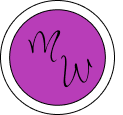
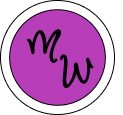
updating pictures and designs adding "media" to case study page

Changed region(s): [[0.2195, 0.2348, 0.7805, 0.7826]]

diff --git a/project1.html b/project1.html
@@ -10,7 +10,7 @@
 </head>
 <body>
     <nav class="navbar sticky-top navbar-expand-lg navbar-light bg-light">
-        <a class="navbar-brand" href="#"><img src="media/Monogram.png"alt="MW-monogram" height="110%" width="auto%">
+        <a class="navbar-brand" href="#"><img src="media/Monogram (1).png"alt="MW-monogram" height="110%" width="auto%">
       </a>
         <button class="navbar-toggler" type="button" data-toggle="collapse" data-target="#navbarTogglerDemo02" aria-controls="navbarTogglerDemo02" aria-expanded="false" aria-label="Toggle navigation">
           <span class="navbar-toggler-icon"></span>
@@ -39,7 +39,7 @@
           </div>
         </nav>
 <!--informational header-->
-      <div class="jumbotron" margin-top="200px"><h1 class="display-4">Government Page Redesign</h1><img src="./media/AuPost mock-up.png" alt="aupost mockup" class="img-fluid" max-width="100%" height="auto">
+      <div class="jumbotron" margin-top="200px"><h1 class="display-4">Government Page Redesign</h1><img src="media/Untitled design (8).png" alt="aupost mockup" class="img-fluid rounded" max-width="100%" height="auto">
         
         <p class="lead">Project Overview</p>
         <hr class="my-4">
@@ -111,7 +111,7 @@
       <!--Spy modal with scroll-->
         <div class="container-fluid">
         <div class="row">
-        <div id="list-sidebar" class="list-group col-sm-3" data-spy="affix" data-offset-top="200"><h2>My Design Process</h2>
+        <div id="list-sidebar" class="list-group col-sm-2" data-spy="affix" data-offset-top="200"><h2>My Design Process</h2>
          <ul>
          <li><a class="list-group-item list-group-item-action" href="#list-item-1">Empathize</a></li>
           <li><a class="list-group-item list-group-item-action" href="#list-item-2">Define</a></li>
@@ -121,10 +121,21 @@
           <li><a class="list-group-item list-group-item-action" href="#list-item-6">Solution</a></li>
           </ul>
           </div>
-      <div class="design-process col-sm-8">
-        <h4 id="list-item-1">Empathize</h4>
-        <p>Government websites are notorious for having bad design.  Users are often frustrated trying to find the information they are searching for. For this project, I chose to redesign the australia post office navigation and homepage. In the empathize phase of the design process I created a proto-persona to try to understand the user's needs, and a user journey to understand what his pain points might be. Then I took a look at user's actually experiences by conducting two usability tests, compiling the information into an affinity diagram, and completing a heuristic evaluation of the navigation and homepage.</p>
-        <h5>Proto-Persona</h5><p>Ken owns a small printing business in australia, where he resides.  He loves creating banners, stationary, and posters for his clients.  Recently, he has started branching out to create materials for larger companies,  he needs to efficiently mail samples to clients and potential clients.  As ken has grown, his need for using the postal service has grown.  The current website feels convoluted and hard to navigate.</p><img src="media/protopersonaresized.png" alt="proto-persona for Australia Post Office Redesign" class="img-fluid"></p><h5>Usability Findings</h5><h6>Objective</h6><p>To better understand where users struggle using the australia post office website, which parts aren't functional, and where the navigation and homepage can be improved.</p><h6>KPI's</h6><p>Do users struggle with using the navigation and website? Does the user have to click the "Back" button because navigation was unclear?</p><img src="./media/clippedpainpoints.png" alt="Users wished there was more iconography and clearer navigation as well as CTA buttons." class="img-fluid"><h5>Heuristic Evaluation</h5><p>The biggest issues with the homepage was its accessibility and performance.  According to the lighthouse report, the homepage scored 50% in performance, and from my own research using the 6 main colors, the homepage had a 60% failure rate for accessibility.  You can see my evaluation <a href="https://docs.google.com/document/d/1l0A5y9Z8o1qSMFwNXmfq9iB7bsAolx5JOa9MxtEXkR8/edit?usp=sharing" class="stretched-link">Here</a>. </p>
+      <div class="design-process col-sm-10">
+        
+        <div class="media">
+          <div class="media-body ml-auto">
+            <h4 id="list-item-1" class="mt-0 mb-1">Empathize</h4>
+        <p>Government websites are notorious for having bad design.  Users are often frustrated trying to find the information they are searching for. For this project, I chose to redesign the australia post office navigation and homepage. </p></div>
+         <img src="media/Au Post above the fold2.png" alt="Australia post office homepage" class="img-thumbnail rounded-small mr-auto shadow">
+         </div>
+         <div class="media align-self-center mr-3">
+         <img src="media/protopersonarere.png" alt="proto-persona for Australia Post Office Redesign" class="img-thumbnail">
+         <div class="media-body"><h5 class="mt-0">Proto-Persona</h5>
+          <p>Ken owns a small printing business in australia, where he resides.  As Ken's business has grown, his need for using the postal service has grown.  The current website feels convoluted and hard to navigate.<p>
+        </div>
+      </div>
+        <h5>Usability Testing</h5><h6>Objective</h6><p>To better understand where users struggle using the australia post office website, which parts aren't functional, and where the navigation and homepage can be improved.</p><h6>KPI's</h6><p>Do users struggle with using the navigation and website? Does the user have to click the "Back" button because navigation was unclear?</p><img src="./media/clippedpainpoints.png" alt="Users wished there was more iconography and clearer navigation as well as CTA buttons." class="img-fluid"><h5>Heuristic Evaluation</h5><p>The biggest issues with the homepage was its accessibility and performance.  According to the lighthouse report, the homepage scored 50% in performance, and from my own research using the 6 main colors, the homepage had a 60% failure rate for accessibility.  You can see my evaluation <a href="https://docs.google.com/document/d/1l0A5y9Z8o1qSMFwNXmfq9iB7bsAolx5JOa9MxtEXkR8/edit?usp=sharing">Here</a>. </p>
         <h4 id="list-item-2">Define</h4><h5>Card Sort</h5>
         <p></p><h5>Updated Site Map</h5><p>The next largest issue was the excessive use of red.  While red is a color of their brand, too much red can be jarring, reminding the user of warnings such as a red stop light or a red stop sign.  Finally, the CTA bar was located too far down the page. The cta buttons are usually commonly-used actions but these weren't very useful because they were located around the fold of the page. </p>
         <h4 id="list-item-3">Ideate</h4>
@@ -146,14 +157,14 @@
           <i class="social-media">
         <img src="./media/linkedin.png" class="icon">
         </i>
-          <p class="lead"><a href="https://www.linkedin.com/in/marla-c-wright" class="stretched-link">linkedin.com/in/marla-c-wright</a></p>
+          <p class="lead"><a href="https://www.linkedin.com/in/marla-c-wright">linkedin.com/in/marla-c-wright</a></p>
           <break></break>
         </div>
-        <div class="row">
+       <!--<div class="row">
           <i class="social-media">
           <img src="./media/google.png" class="icon">
         </i>
-          <p class="lead">marla.christine.wright@gmail.com</p>
+          <p class="lead">marla.christine.wright@gmail.com</p>-->
         </div>
         </div>
       </div>

diff --git a/index.html b/index.html
@@ -11,7 +11,7 @@
 <body>
 
     <nav class="navbar sticky-top navbar-expand-lg navbar-light bg-light">
-      <a class="navbar-brand" href="#"><img src="media/Monogram.png"alt="MW-monogram" height="110%" width="auto%">
+      <a class="navbar-brand" href="#"><img src="media/Monogram (1).png"alt="MW-monogram" height="110%" width="auto%">
     </a>
       <button class="navbar-toggler" type="button" data-toggle="collapse" data-target="#navbarTogglerDemo02" aria-controls="navbarTogglerDemo02" aria-expanded="false" aria-label="Toggle navigation">
         <span class="navbar-toggler-icon"></span>
@@ -40,9 +40,9 @@
       </div>
     </nav>
  <h1 class="display-4">Hi! I'm Marla,</h1>
-      <div class="jumbotron text-right row row-cols-md-2">
+      <div class="jumbotron text-right row row-cols-md-2 bg-light">
         <div class="media" class="headshot">
-          <img src="media/2023-02-24.jpg" class="img-thumbnail rounded-circle" alt="Headshot">
+          <img src="media/2023-02-24.jpg" class="img-thumbnail rounded-circle border border-dark" alt="Headshot">
         </div>
         <div>
         <!--<hr class="my-4">
@@ -67,7 +67,7 @@
             <div class="card-header">
                 Aupost.com.au
               </div>
-            <img src="media/gifmock (4).gif" alt="Aupost mockup">
+            <img src="media/Untitled design (8).png" alt="Aupost mockup" id="aumock"class="rounded">
             <div class="card-body">
               <h5 class="card-title">Government Site Redesign</h5>
               <p class="card-text">Redesigned Government Website Navigation Bar for Improved Hierarchy & Homepage for Improved Usability.</p>
@@ -80,7 +80,7 @@
             <div class="card-header">
                 Stjude.org
               </div>
-            <img src="media/gifmock (3).gif" class="card-img-top" alt="St-Jude-mockup">
+            <img src="media/Untitled design (9).png" id="judemock"class="card-img-top" alt="St-Jude-mockup" class="rounded">
             <div class="card-body">  
               <h5 class="card-title">Non-Profit Site Redesign</h5>
               <p class="card-text">Redesigned Homepage, Navigation, & One Additional Landing Page for Improved Usability.</p>
@@ -97,19 +97,19 @@
               <i class="social-media">
             <img src="./media/linkedin.png" class="icon">
             </i>
-              <p class="lead"><a href="https://www.linkedin.com/in/marla-c-wright" class="stretched-link">linkedin.com/in/marla-c-wright</a></p>
+              <p class="lead"><a href="https://www.linkedin.com/in/marla-c-wright">linkedin.com/in/marla-c-wright</a></p>
               <break></break>
             </div>
             <div class="row">
-              <i class="social-media">
+             <!--<i class="social-media">
               <img src="./media/google.png" class="icon">
             </i>
-              <p class="lead">marla.christine.wright@gmail.com</p>
+              <p class="lead">marla.christine.wright@gmail.com</p>-->
             </div>
             </div>
           </div>
          
-          <script src="./media/index.js"></script>
+          <script src="./project1.js"></script>
       <script src="https://cdn.jsdelivr.net/npm/jquery@3.5.1/dist/jquery.slim.min.js" integrity="sha384-DfXdz2htPH0lsSSs5nCTpuj/zy4C+OGpamoFVy38MVBnE+IbbVYUew+OrCXaRkfj" crossorigin="anonymous"></script>
 <script src="https://cdn.jsdelivr.net/npm/bootstrap@4.6.2/dist/js/bootstrap.bundle.min.js" integrity="sha384-Fy6S3B9q64WdZWQUiU+q4/2Lc9npb8tCaSX9FK7E8HnRr0Jz8D6OP9dO5Vg3Q9ct" crossorigin="anonymous"></script>
 </body>

diff --git a/style.css b/style.css
@@ -2,7 +2,7 @@ body {
   margin: 10px;
 }
 .nav-item .nav-link {
-    background-color:  rgb(184, 61, 184);
+    background-color:  #E3A6FF;
     border-color: black;
     border-width: 1px;
   }
@@ -10,19 +10,32 @@ body {
     background-color: white;
     border-width: 1px;
   }
-  .nav-bar .nav-link .nav-item {
-}
 .card-body{
   padding: 20px;
 }
   h1{
     text-align: center;
   }
+ #list-item-1 {
+  align-items:center;
+  justify-content:space-evenly;
+ }
+ .card:hover {
+  box-shadow: 10px 10px lightgrey;
+  transition: all 0.3s ease;
+ }
+ #aumock:hover {
+  box-shadow: 10px 10px lightgrey;
+  transition: all 0.3s ease;
+ }
+ #judemock:hover {
+  box-shadow: 10px 10px lightgrey;
+  transition: all 0.3s ease;
+ }
   @media screen and (min-width:992px ){
   .headshot {
    width: 25%;
   }
-}
 .header {
   font-size: 24px;
   text-align: center;
@@ -34,11 +47,12 @@ body {
   color: black;
 }
 .btn:hover {
-  background-color: rgb(184, 61, 184); 
+  background-color: #E3A6FF; 
 }
 .card-header {
   font-size: 18px;
   text-align: center;
+
 }
 /*@media (max-width: 991.98px) {
   .card{
@@ -53,11 +67,17 @@ body {
 .jumbotron-fluid {
   margin-top: 50px;
 }
+
 .img-fluid {
   align-items: center;
   justify-content: center;
 }
-
+/*#judemock:hover {
+  background-color: #CEBCAE; 
+}
+#aumock:hover {
+background-color:#A0A0A0;
+}*/
 /*.card-col{
   width: 18rem;
 }
@@ -113,7 +133,7 @@ footer .row h2 {
 }
 }
 .list-group-item-action:hover {
-  background-color:rgb(184, 61, 184);
+  background-color:#E3A6FF;
 }
 .design-process {
   margin-top: 30px;

diff --git a/Project2.html b/Project2.html
@@ -8,7 +8,7 @@
     <link rel="stylesheet" href="./style.css">
 </head>
 <nav class="navbar sticky-top navbar-expand-lg navbar-light bg-light">
-    <a class="navbar-brand" href="#"><img src="media/Monogram.png"alt="MW-monogram" height="110%" width="auto%">
+    <a class="navbar-brand" href="#"><img src="media/Monogram (1).png"alt="MW-monogram" height="110%" width="auto%">
   </a>
     <button class="navbar-toggler" type="button" data-toggle="collapse" data-target="#navbarTogglerDemo02" aria-controls="navbarTogglerDemo02" aria-expanded="false" aria-label="Toggle navigation">
       <span class="navbar-toggler-icon"></span>
@@ -58,10 +58,10 @@
           <break></break>
         </div>
         <div class="row">
-          <i class="social-media">
+          <!--<i class="social-media">
           <img src="./media/google.png" class="icon">
         </i>
-          <p class="lead">marla.christine.wright@gmail.com</p>
+          <p class="lead">marla.christine.wright@gmail.com</p>-->
         </footer>
     <script src="./media/index.js"></script>
     <script src="https://cdn.jsdelivr.net/npm/jquery@3.5.1/dist/jquery.slim.min.js" integrity="sha384-DfXdz2htPH0lsSSs5nCTpuj/zy4C+OGpamoFVy38MVBnE+IbbVYUew+OrCXaRkfj" crossorigin="anonymous"></script>

diff --git a/project1.js b/project1.js
@@ -22,3 +22,11 @@
         bottom: $('footer').outerHeight() + 50
     }
 })*/
+/*$('.ul').affix({offset: {top: 150} });*/
+/*$(".card" ).hover(
+    function() {
+      $(this).addClass('shadow-lg').css('cursor', 'pointer'); 
+    }, function() {
+      $(this).removeClass('shadow-lg');
+    }
+  ); */ 
